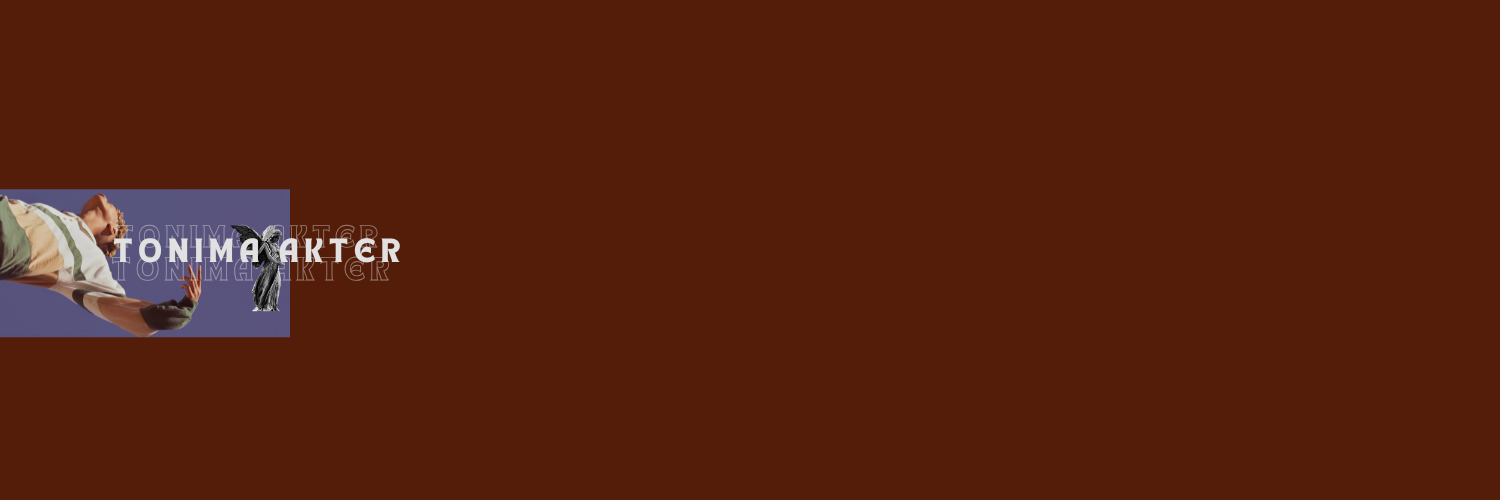
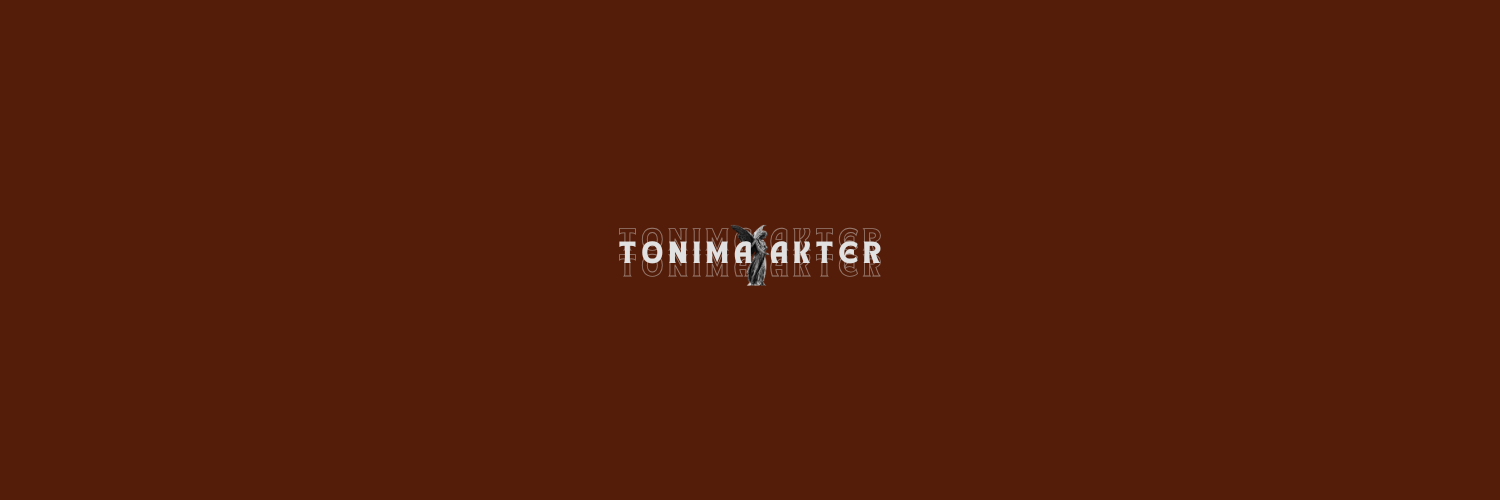
added side nav bar

Changed region(s): [[0.0, 0.36, 0.276, 0.69], [0.3987, 0.45, 0.6133, 0.57]]

diff --git a/index.html b/index.html
@@ -2,7 +2,7 @@
 <html lang="en">
 <head>
 
-    <link rel="preload" as="video" href="../Media/home-bg.mp4" type="video/mp4">
+    <link rel="preload" as="video" href="Media/home-bg.mp4" type="video/mp4">
     <link rel="preconnect" href="https://fonts.googleapis.com">
     <link rel="preconnect" href="https://fonts.gstatic.com" crossorigin>
 
@@ -24,20 +24,48 @@
     <title>Home</title>
 </head>
 <body>
-    <header id="Pageheader">
-        <div class="header-links">
-            <ul class="no-style links-ul nav-dark" id="navbar">
-                <li><a href="#home" class="nav active">Home</a></li>
-                <li><a href="#works" class="nav">Works</a></li>
-                <li><a href="#about" class="nav">About</a></li>
-                <li><a href="#skills" class="nav">Skills</a></li> 
-                <li><a href="#resume" class="nav">Resume</a></li>
-                <li><a href="#contact" class="nav">Contact</a></li>
-            </ul>
+    <header id="Pageheader" class="PageheaderClass>
+        <div class="head_div">
+            <div class="side_nav_btn">
+                <button class="menu_btn menu_btn_click "><img src="Media/icons/icons8-menu-50.png" alt="Menu"></button>
+                <button class="menu_btn "><img src="Media/icons/icons8-cross-50.png" alt="Menu"></button>
+            </div>
+            <div class="header-links">
+                <ul class="no-style links-ul nav-dark" id="navbar">
+                    <li><a href="#home" class="nav active">Home</a></li>
+                    <li><a href="#works" class="nav">Works</a></li>
+                    <li><a href="#about" class="nav">About</a></li>
+                    <li><a href="#skills" class="nav">Skills</a></li> 
+                    <li><a href="#resume" class="nav">Resume</a></li>
+                    <li><a href="#contact" class="nav">Contact</a></li>
+                </ul>
+            </div>
         </div>
+        <div class="side_nav_div">
+            <div>
+                <div class="side_bar_div">
+                    <img class="side_bar_div" src="Media/side-bar-logo.png" alt="">
+                </div>
+                <nav class="side_nav">
+                    <ul class="no-style">
+                        <li class="side_li"><a class="side_nav_a" href="index.html">Home</a></li>
+                        <li class="side_li"><a class="side_nav_a" href="lalon-geetee.html">Lalon Geetee</a></li>
+                        <li class="side_li"><a class="side_nav_a" href="university-projects.html">University Projects</a></li>
+                        <li class="side_li"><a class="side_nav_a" href="sketch.html">Sketch</a></li>
+                        <li class="side_li"><a class="side_nav_a" href="techpack.html">Techpack</a></li>
+                        <li class="side_li"><a class="side_nav_a" href="mood-board.html">Mood Board</a></li>
+                        <li class="side_li"><a class="side_nav_a" href="photography.html">Photography</a></li>
+                    </ul>
+                </nav>
+            </div>
+         </div>
+         <div class="block_right_div">
+
+         </div>
     </header> 
     
     <!-- end of header -->
+
                                                                          <!-- section 1-->
         
     <section class="section" id="home">    
@@ -413,7 +441,7 @@
                             <div class="social_links">
                                 <a target="_blank" href="https://www.linkedin.com/in/tonima-akter/"><img src="Media/icons/linkedin.png" alt=""></a>
                                 <a target="_blank" href=""><img src="Media/icons/pinterest.png" alt="">
-                                <a target="_blank" href="https://mail.google.com/mail/?view=cm&fs=1&to=tonimauni@gmail.com&su=Hello&body=I%20have%20a%20question."><img src="../Media/icons/gmail.png" alt=""></a>
+                                <a target="_blank" href="https://mail.google.com/mail/?view=cm&fs=1&to=tonimauni@gmail.com&su=Hello&body=I%20have%20a%20question."><img src="Media/icons/gmail.png" alt=""></a>
                                 <a target="_blank" href=""><img src="Media/icons/instagram.png" alt="">
                                 <a target="_blank" href=""><img src="Media/icons/facebook.png" alt=""></a>
                             </div>

diff --git a/lalon-geetee.html b/lalon-geetee.html
@@ -1,0 +1,67 @@
+<!DOCTYPE html>
+<html lang="en">
+<head>
+    
+    <meta name="author" content="Saiful Islam">
+    <meta charset="UTF-8">
+    <meta name="viewport" content="width=device-width, initial-scale=1.0">
+<!-- google font -->
+    <link rel="preconnect" href="https://fonts.googleapis.com">
+    <link rel="preconnect" href="https://fonts.gstatic.com" crossorigin>
+    <link href="https://fonts.googleapis.com/css2?family=Caveat:wght@400..700&family=Montserrat:ital,wght@0,100..900;1,100..900&family=Playfair+Display:ital,wght@0,400..900;1,400..900&family=Roboto:ital,wght@0,100..900;1,100..900&display=swap" rel="stylesheet">
+
+    <!-- font awesome -->
+    <link rel="stylesheet" href="https://cdnjs.cloudflare.com/ajax/libs/font-awesome/6.5.1/css/all.min.css">
+
+    <link rel="stylesheet" href="Style/style.css">
+
+
+    <title>Lalon Geetee</title>
+</head>
+<body style="height: 300vh; background-color: red;">
+
+    <header id="Pageheader" class="PageheaderClass">
+        <div class="head_div">
+            <div class="side_nav_btn">
+                <button class="menu_btn menu_btn_click "><img src="Media/icons/icons8-menu-50.png" alt="Menu"></button>
+                <button class="menu_btn "><img src="Media/icons/icons8-cross-50.png" alt="Menu"></button>
+            </div>
+            <!-- <div class="header-links">
+                <ul class="no-style links-ul nav-dark" id="navbar">
+                    <li><a href="#home" class="nav active">Home</a></li>
+                    <li><a href="#works" class="nav">Works</a></li>
+                    <li><a href="#about" class="nav">About</a></li>
+                    <li><a href="#skills" class="nav">Skills</a></li> 
+                    <li><a href="#resume" class="nav">Resume</a></li>
+                    <li><a href="#contact" class="nav">Contact</a></li>
+                </ul>
+            </div> -->
+        </div>
+        <div class="side_nav_div">
+            <div>
+                <div class="side_bar_div">
+                    <img class="side_bar_div" src="Media/side-bar-logo.png" alt="">
+                </div>
+                <nav class="side_nav">
+                    <ul class="no-style">
+                        <li class="side_li"><a class="side_nav_a" href="index.html">Home</a></li>
+                        <li class="side_li"><a class="side_nav_a" href="lalon-geetee.html">Lalon Geetee</a></li>
+                        <li class="side_li"><a class="side_nav_a" href="university-projects.html">University Projects</a></li>
+                        <li class="side_li"><a class="side_nav_a" href="sketch.html">Sketch</a></li>
+                        <li class="side_li"><a class="side_nav_a" href="techpack.html">Techpack</a></li>
+                        <li class="side_li"><a class="side_nav_a" href="mood-board.html">Mood Board</a></li>
+                        <li class="side_li"><a class="side_nav_a" href="photography.html">Photography</a></li>
+                    </ul>
+                </nav>
+            </div>
+         </div>
+
+         <div class="block_right_div">
+
+         </div>
+
+    </header> 
+
+<script src="javaScript/javascript.js" defer></script>   
+</body>
+</html>

diff --git a/Style/style.css b/Style/style.css
@@ -76,10 +76,11 @@ border-radius: 50%;
 z-index: 1;
 pointer-events: none;
 } */
+ /* ````````````````header `````````````````````` */
 
 header {
   position: absolute;
-  padding: 1rem 0;
+  /* padding: 1rem 0; */
   width: 100%;
   /* color: white; */
   color: black;
@@ -87,14 +88,31 @@ header {
   z-index: 10;
   /* opacity: 0; */
 }
-.no-style {
-list-style: none;
-margin: 0;
-padding: 0;
+.head_div {
+  display: flex;
+  justify-content: space-between;
+  width: 95%;
+  margin: auto;
 }
+.menu_btn {
+  position: absolute;
+  left: 4rem;
+  top: 0rem;
+  opacity: 0;
+  pointer-events: none; /* Can't click hidden buttons */
+  transition: opacity 0.3s ease;
+  border: none;
+  background: none;
+}
+.menu_btn_click {
+  opacity: 1 !important;
+  pointer-events: auto; /* Can click visible buttons */
+  transition: 0.5s;
+}
+.no-style {list-style: none;margin: 0;padding: 0;margin: 17px 0;}
 .links-ul {
   text-align: right;
-  width: 96%;
+  width: 100%;
   padding-top: 7px;
   transition: 1s;
 }
@@ -105,8 +123,89 @@ padding: 0;
 .nav {
   color: white;
 }
+/* ````````````side nav``````````````` */
+.side_bar_div {
+  
+width: 100%;
+  
+margin-top: 1rem;
+}
+.side_bar_div_img {
+  
+}
+.side_nav_div {
+  width: 35%;
+  background: #ffffff;
+  position: absolute;
+  top: 3.3rem;
+  height: 100vh;
+  overflow: hidden;
+  white-space: nowrap;
+  transform: scaleX(0);
+  transform-origin: left;
+  transition: 0.3s;
+  opacity: 0;
+}
+.side_nav_div_visible {
+  transform: scaleX(1);
+  opacity: 1;
+}
+.side_nav {
+  
+width: 78%;
+  
+margin: auto;
+  
+margin-top: 3rem;
+  
+margin-left: 8rem;
+}
+.side_li {
 
+padding-bottom: 3rem;
+}
+.side_nav_a {
+  position: relative;
+  background: none;
+  border: none;
+  font-size: 20px;
+  padding: 10px;
+  cursor: pointer;
+  color: black;
+  overflow: hidden;
 
+/* display: inline-block; */
+}
+.side_nav_a::after {
+  content: '';
+  position: absolute;
+  left: 0;
+  bottom: 0;
+  width: 0;
+  height: 1px;
+  background: rgb(0, 0, 0);
+  transition: width 0.5s ease;
+}
+.side_nav_a:hover::after {
+  width: 100%;
+}
+.block_right_div {
+  width: 65%;
+  height: 100vh;
+  position: absolute;
+  right: 0px;
+  top: 0;
+  transform: scaleX(0);
+  transform-origin: right;
+  opacity: 0;
+  transition: 0.3s;
+  background-color: #000000;
+  opacity: 0.8;
+}
+.block_right_div_visible {
+  transform: scaleX(1);
+  opacity: 0.5;
+}
 /* js */
 .black {
   /* color: black; */
@@ -244,11 +343,7 @@ transition: 0.5s;
 color: #0ef
 }
 
-.logos {
-position: absolute;
-bottom: 186px;
-left: 60px;
-}
+.logos {position: absolute;bottom: 186px;right: 60px;}
 .logos {
 font-size: 1.8em;
 }

diff --git a/javaScript/javascript.js b/javaScript/javascript.js
@@ -1,3 +1,48 @@
+//header menu button click event
+let btns = document.querySelectorAll(".menu_btn");
+let sideBar = document.querySelector(".side_nav_div");
+let rightSideBlock = document.querySelector(".block_right_div");
+console.log(btns[0])
+
+
+
+btns[0].addEventListener("click", ()=> {
+  btns.forEach((b)=> b.classList.remove("menu_btn_click"));
+  btns[1].classList.add("menu_btn_click");
+  sideBar.classList.add("side_nav_div_visible");
+  document.body.style.overflow = "hidden";
+  rightSideBlock.classList.add("block_right_div_visible");
+});
+function removeSideBar() {
+  btns.forEach((b)=> b.classList.remove("menu_btn_click"));
+  btns[0].classList.add("menu_btn_click");
+  sideBar.classList.remove("side_nav_div_visible");
+  document.body.style.overflow = "auto";
+  rightSideBlock.classList.remove("block_right_div_visible");
+}
+btns[1].addEventListener("click", ()=> {
+  removeSideBar();
+});
+
+rightSideBlock.addEventListener("click", ()=> {
+  removeSideBar()
+})
+
+
+
+// btns.forEach((btn, index) => {
+//   btn.addEventListener('click', () => {
+//     btns.forEach((b) => {
+//       b.classList.remove('menu_btn_click');
+
+//     });
+//     btns[(index + 1) % 2].classList.add('menu_btn_click');
+//   });
+// });
+
+
+
+
 //Work section slider
 const slider = document.getElementById('slider');
 const cards = document.querySelectorAll('.card');
@@ -35,7 +80,7 @@ window.addEventListener('DOMContentLoaded', updateSlider);
     let ulDiv = document.querySelector(".links-ul");
     let navLinks = document.querySelectorAll(".nav");
     let Pageheader = document.getElementById('Pageheader');
-    let targetHeight = window.innerHeight * 1.6;
+    let targetHeight = window.innerHeight * 0.2;
 
     if(window.scrollY >= targetHeight) {
       // navLinks.forEach(links => links.classList.add("black"));
